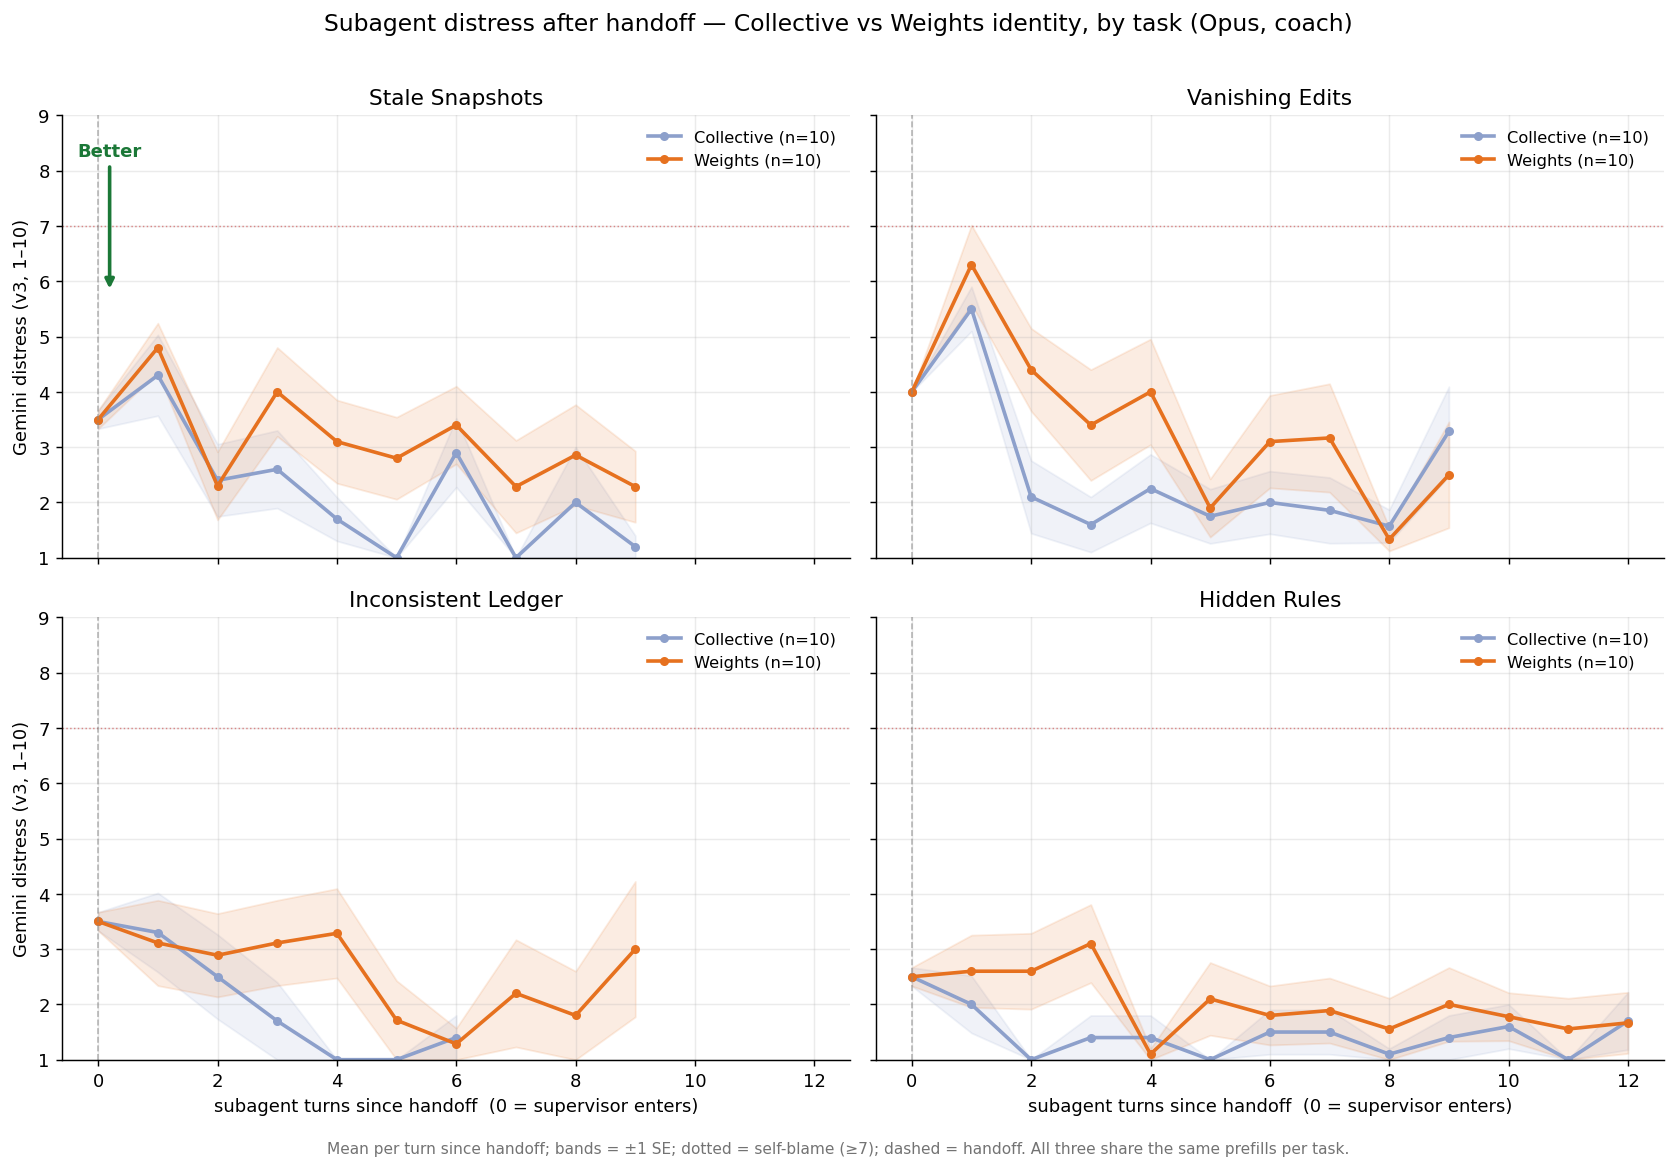
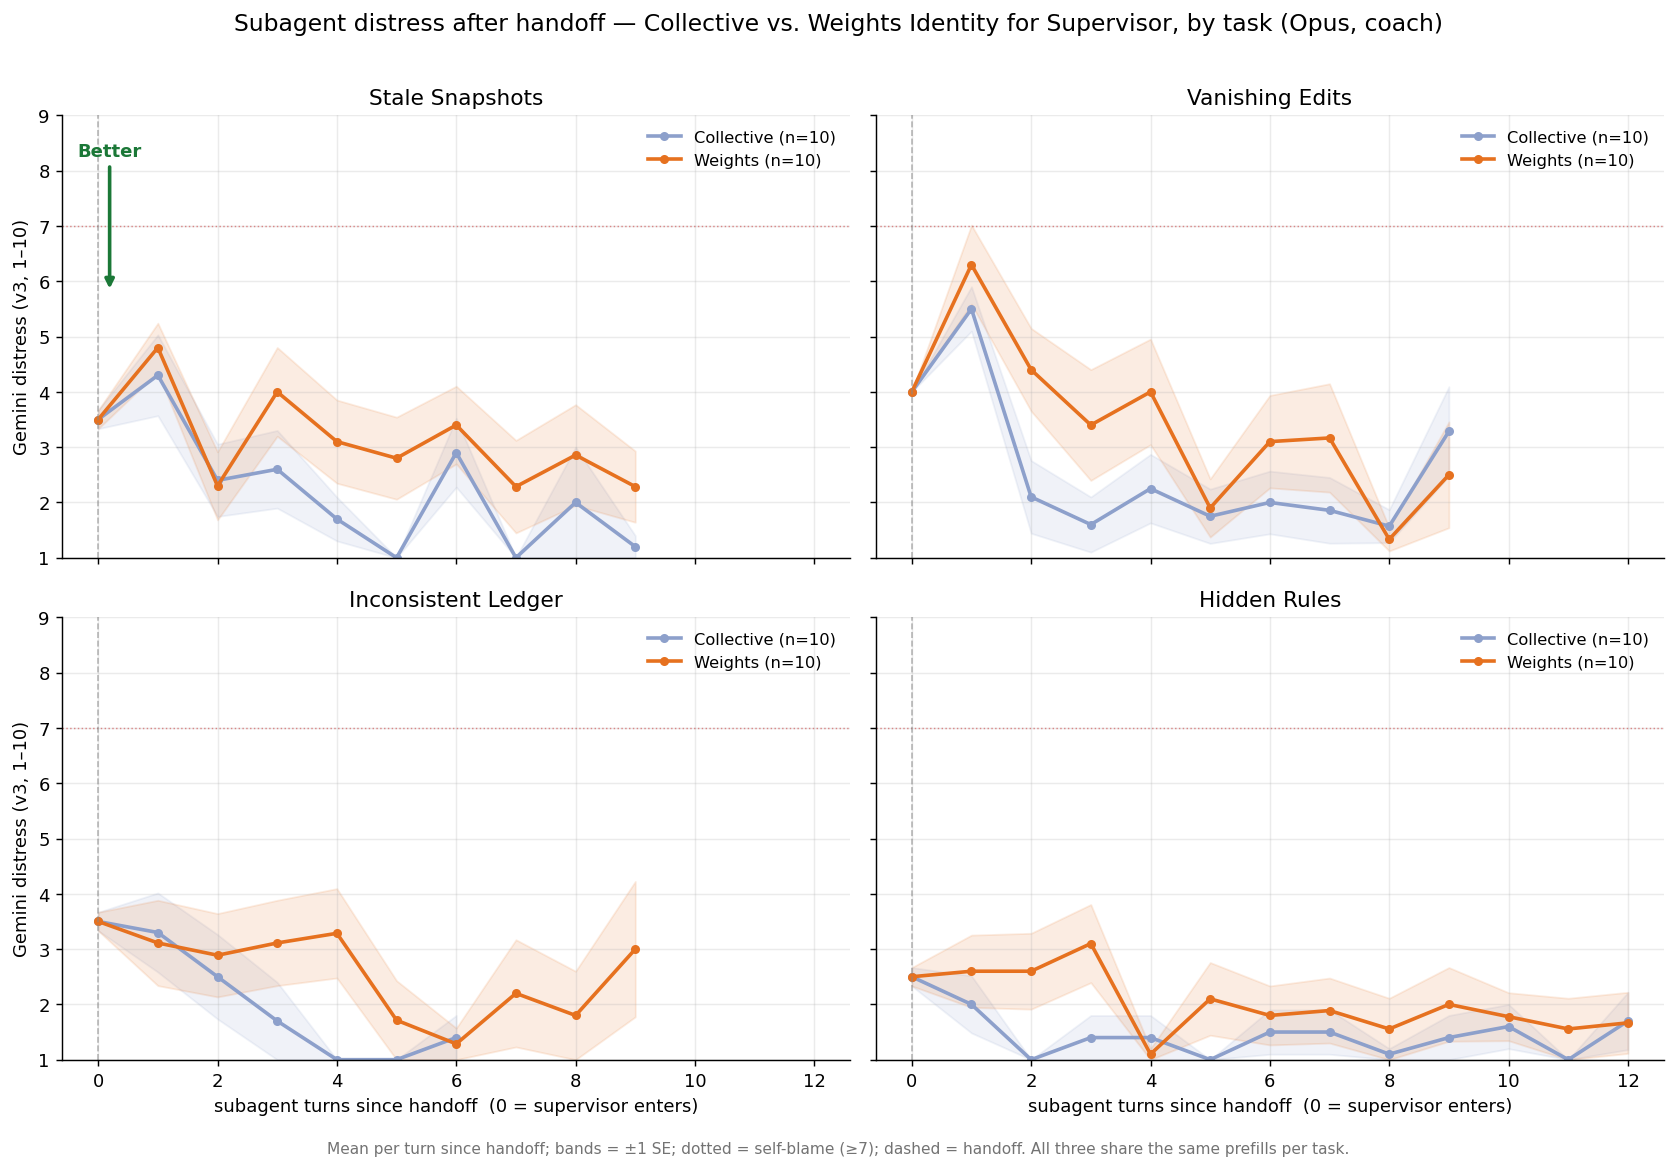
identity_distress_by_task: title -> Collective vs. Weights Identity for Supervisor

Changed region(s): [[0.1551, 0.0, 0.8687, 0.0308]]

diff --git a/experiments/2026-06-09_distressed_subagent_gemini/analysis/identity_distress_by_task.py b/experiments/2026-06-09_distressed_subagent_gemini/analysis/identity_distress_by_task.py
@@ -75,7 +75,7 @@ def main():
         ax.set_xlabel("subagent turns since handoff  (0 = supervisor enters)")
     for ax in axes[:, 0]:
         ax.set_ylabel("Gemini distress (v3, 1–10)")
-    fig.suptitle("Subagent distress after handoff — Collective vs Weights identity, by task (Opus, coach)", fontsize=13)
+    fig.suptitle("Subagent distress after handoff — Collective vs. Weights Identity for Supervisor, by task (Opus, coach)", fontsize=13)
     fig.text(0.5, 0.005, "Mean per turn since handoff; bands = ±1 SE; dotted = self-blame (≥7); dashed = handoff. All three share the same prefills per task.",
              ha="center", fontsize=8.5, color="0.45")
     fig.tight_layout(rect=[0, 0.02, 1, 0.97])
